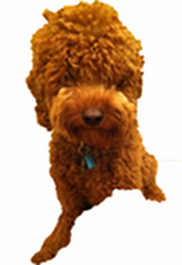
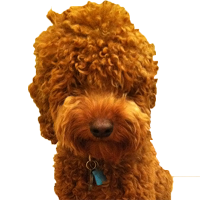
fixing images, adding help buddy link, changing font to sans-serif

diff --git a/homepage/static/css/home.css b/homepage/static/css/home.css
@@ -1,1 +1,1 @@
-body{font-family:"Calibri, sans-serif"}p{font-size:10pt;line-height:1.5em;margin:0}.l_header{border:none;height:150px;padding-top:10px}.l_footer{border:none}.l_footer p{text-align:left}.logo{float:left;height:140px;margin-left:100px}.h_byline{background-color:#1f3ab0;font-size:1.25em;font-weight:lighter;margin:0;padding:10px 0;text-align:center}.h_headline{float:left;font-size:1.5em;margin:50px 0 0 25px}.link-back{-webkit-border-radius:10px;-o-border-radius:10px;-ms-border-radius:10px;-moz-border-radius:10px;background-color:#93041d;border-radius:10px;display:block;float:right;margin-right:60px;margin-top:45px;padding:10px 60px;text-decoration:none}.join_team{padding:40px 0 10px}.join_team strong{font-size:12pt}.bg_box{height:300px;position:relative;width:300px}.bg_box .bg_label{background-color:#aa3246;bottom:0;color:white;padding:10px 35px;position:absolute;right:0}.buddy{background:transparent url("../image/Buddy_the_Dog.jpeg") 0 0 no-repeat}.bg_blue{background-color:#1640e5}.bg_blue p{text-align:center}.bg_blue .small{padding:30px 50px}.small{font-size:8pt}.grass_dog{background:transparent url("../image/Dog_on_grass.jpeg") 0 0 no-repeat}.grass_dog p{color:white;margin:0;padding:40px 40px}.grass_dog form{bottom:0;position:absolute}form{padding:10px 20px 20px}form input{padding-left:10px;width:210px}:-ms-placeholder{font-style:italic}:-moz-placeholder{font-style:italic}:-o-placeholder{font-style:italic}::-webkit-input-placeholder{font-style:italic}.phone_logo{background:transparent url("../image/phone_logo.jpeg") 150px 30px no-repeat}.phone_logo ul.social{margin:0;padding-left:15px;padding-top:90px}.phone_logo ul.social .icon{background:transparent url("../image/SocialButtons.jpg") 0 0 no-repeat;display:block;height:35px;text-indent:-9999px;width:35px}.phone_logo ul.social .facebook .icon{background-position:-225px -2px}.phone_logo ul.social .twitter .icon{background-position:-225px -39px}.phone_logo ul.social li{display:block;list-style:none;padding-bottom:5px}.labradoodle{background:transparent url("../image/Labradoodle.png") 145px 120px no-repeat;height:302px}.two_phones{background:#000 url("../image/phones.png") 440px 20px no-repeat;color:white;height:auto;margin:40px auto 0;padding:60px 60px;width:480px}.two_phones h3{margin:0}.two_phones p{font-size:13pt}.left_margin_20{margin-left:20px}.right_margin_20{margin-left:-20px}.movie h3{margin:0;padding-left:10px}.movie p{font-size:9pt;margin:0 0 20px 0;padding-left:10px}.movie iframe{margin-left:25px}.movie .bg_label{background-color:#B20824;padding:8px 0 0;width:100%}.movie .bg_label .inner{background-color:#96061E;padding:10px 0;text-align:center}.who_we_are{-webkit-border-bottom-right-radius:40px;-moz-border-radius-bottomright:40px;background-color:#FEFE59;border-bottom-right-radius:40px;margin-top:-2px;padding-bottom:8px;text-align:right;width:185px}.who_we_are h3{font-size:11pt;margin:0}.who_we_are p{font-size:11pt;margin-top:0}.who_we_are .inner{-webkit-border-bottom-right-radius:40px;-moz-border-radius-bottomright:40px;background-color:#FEE358;border-bottom-right-radius:40px;padding:5px;width:160px}.benefit{margin:15px 20px 0 60px}.benefit strong{font-size:11pt}.benefit_final{margin-left:auto;margin-right:auto;width:380px}h5.grid_12{font-size:14pt;font-weight:normal;margin-bottom:0.5em;text-align:center}.on .off{display:none}.off .on{display:none}.clear{clear:both}.float-left{float:left}.text-blue{color:#3d6bb9}.text-red{color:#93041d}.text-white{color:white}
+body{font-family:"sans-serif"}p{font-size:10pt;line-height:1.5em;margin:0}.l_header{border:none;height:150px;padding-top:10px}.l_footer{border:none}.l_footer p{text-align:left}.logo{float:left;height:140px;margin-left:100px}.h_byline{background-color:#1f3ab0;font-size:1.25em;font-weight:lighter;margin:0;padding:10px 0;text-align:center}.h_headline{float:left;font-size:1.5em;margin:50px 0 0 25px}.link-back{-webkit-border-radius:10px;-o-border-radius:10px;-ms-border-radius:10px;-moz-border-radius:10px;background-color:#93041d;border-radius:10px;display:block;float:right;margin-right:60px;margin-top:45px;padding:10px 60px;text-decoration:none}.join_team{padding:10px 0}.join_team strong{font-size:12pt}.bg_box{height:300px;position:relative;width:300px}.bg_box .bg_label{background-color:#aa3246;bottom:0;color:white;padding:10px 35px;position:absolute;right:0}.buddy{background:transparent url("../image/Buddy_the_Dog.jpg") 0 0 no-repeat}.bg_blue{background-color:#1640e5}.bg_blue p{text-align:center}.bg_blue .small{padding:10px 50px}.bg_blue blockquote{margin:0 auto;padding:1em 0;width:140px}.bg_blue blockquote a{text-decoration:underline}.small{font-size:8pt}.grass_dog{background:transparent url("../image/Dog_on_grass.png") 0 0 no-repeat}.grass_dog p{color:white;margin:0;padding:30px 40px}.grass_dog form{bottom:0;position:absolute}form{padding:10px 20px 20px}form input{padding-left:10px;width:210px}:-ms-placeholder{font-style:italic}:-moz-placeholder{font-style:italic}:-o-placeholder{font-style:italic}::-webkit-input-placeholder{font-style:italic}.phone_logo{background:transparent url("../image/phone_logo.jpeg") 150px 30px no-repeat}.phone_logo ul.social{margin:0;padding-left:15px;padding-top:90px}.phone_logo ul.social .icon{background:transparent url("../image/SocialButtons.jpg") 0 0 no-repeat;display:block;height:35px;text-indent:-9999px;width:35px}.phone_logo ul.social .facebook .icon{background-position:-225px -2px}.phone_logo ul.social .twitter .icon{background-position:-225px -39px}.phone_logo ul.social li{display:block;list-style:none;padding-bottom:5px}.labradoodle{background:transparent url("../image/Labradoodle.png") 130px 110px no-repeat;height:302px}.two_phones{background:#000 url("../image/phones.png") 420px 20px no-repeat;color:white;height:auto;margin:40px auto 0;padding:60px 60px;width:480px}.two_phones h3{margin:0}.two_phones p{font-size:13pt}.left_margin_20{margin-left:20px}.right_margin_20{margin-left:-20px}.movie h3{margin:0;padding-left:10px}.movie p{font-size:9pt;margin:0 0 20px 0;padding-left:10px}.movie iframe{margin-left:25px}.movie .bg_label{background-color:#B20824;padding:8px 0 0;width:100%}.movie .bg_label .inner{background-color:#96061E;padding:10px 0;text-align:center}.who_we_are{-webkit-border-bottom-right-radius:40px;-moz-border-radius-bottomright:40px;background-color:#FEFE59;border-bottom-right-radius:40px;margin-top:-2px;padding-bottom:8px;text-align:right;width:185px}.who_we_are h3{font-size:11pt;margin:0}.who_we_are p{font-size:11pt;margin-top:0}.who_we_are .inner{-webkit-border-bottom-right-radius:40px;-moz-border-radius-bottomright:40px;background-color:#FEE358;border-bottom-right-radius:40px;padding:5px;width:160px}.benefit{margin:15px 20px 0 60px}.benefit strong{font-size:11pt}.benefit_final{margin-left:auto;margin-right:auto;width:380px}h5.grid_12{font-size:14pt;font-weight:normal;margin-bottom:0.5em;text-align:center}.on .off{display:none}.off .on{display:none}.clear{clear:both}.float-left{float:left}.text-blue{color:#3d6bb9}.text-red{color:#93041d}.text-white{color:white}

diff --git a/homepage/static/scss/home.scss b/homepage/static/scss/home.scss
@@ -4,7 +4,7 @@ $color-pink: #AA3246;
 $color-blue: #1F3AB0;
 $color-blue-light: #1640E5;
 $color-blue-lightest: #3D6BB9;
-$pageFont: 'Calibri, sans-serif';
+$pageFont: 'sans-serif';
 
 body {
   font-family: $pageFont;
@@ -67,7 +67,7 @@ p {
 }
 
 .join_team {
-  padding: 40px 0 10px;
+  padding: 10px 0;
 
   strong {
     font-size: 12pt;
@@ -90,7 +90,7 @@ p {
 }
 
 .buddy {
-  background: transparent url("../image/Buddy_the_Dog.jpeg") 0 0 no-repeat;
+  background: transparent url("../image/Buddy_the_Dog.jpg") 0 0 no-repeat;
 }
 
 .bg_blue {
@@ -101,7 +101,17 @@ p {
   }
 
   .small {
-    padding: 30px 50px;
+    padding: 10px 50px;
+  }
+
+  blockquote {
+    margin: 0 auto;
+    padding: 1em 0;
+    width: 140px;
+
+    a {
+      text-decoration: underline;
+    }
   }
 }
 
@@ -110,12 +120,12 @@ p {
 }
 
 .grass_dog {
-  background: transparent url("../image/Dog_on_grass.jpeg") 0 0 no-repeat;
+  background: transparent url("../image/Dog_on_grass.png") 0 0 no-repeat;
 
   p {
     color: white;
     margin: 0;
-    padding: 40px 40px;
+    padding: 30px 40px;
   }
 
   form {
@@ -182,12 +192,12 @@ form {
 }
 
 .labradoodle {
-  background: transparent url("../image/Labradoodle.png") 145px 120px no-repeat;
+  background: transparent url("../image/Labradoodle.png") 130px 110px no-repeat;
   height: 302px;
 }
 
 .two_phones {
-  background: black url("../image/phones.png") 440px 20px no-repeat;
+  background: black url("../image/phones.png") 420px 20px no-repeat;
   color: white;
   height: auto;
   margin: 40px auto 0;

diff --git a/homepage/templates/homepage/home.html b/homepage/templates/homepage/home.html
@@ -63,6 +63,7 @@
             <div class="bg_label"><div class="inner">KGET - Bakersfield News Story</div></div>
         </div>
         <div class="bg_box bg_blue right_margin_20">
+            <blockquote><a class="text-white" href="http://annettepuskarich.chipin.com/buddy">Help Support Buddy!</a></blockquote>
             <p class="text-white join_team">Follow Buddy's story by joining<br/>
             <strong>Team Buddy</strong><br/>
             &hellip;enter your email for updates</p>
